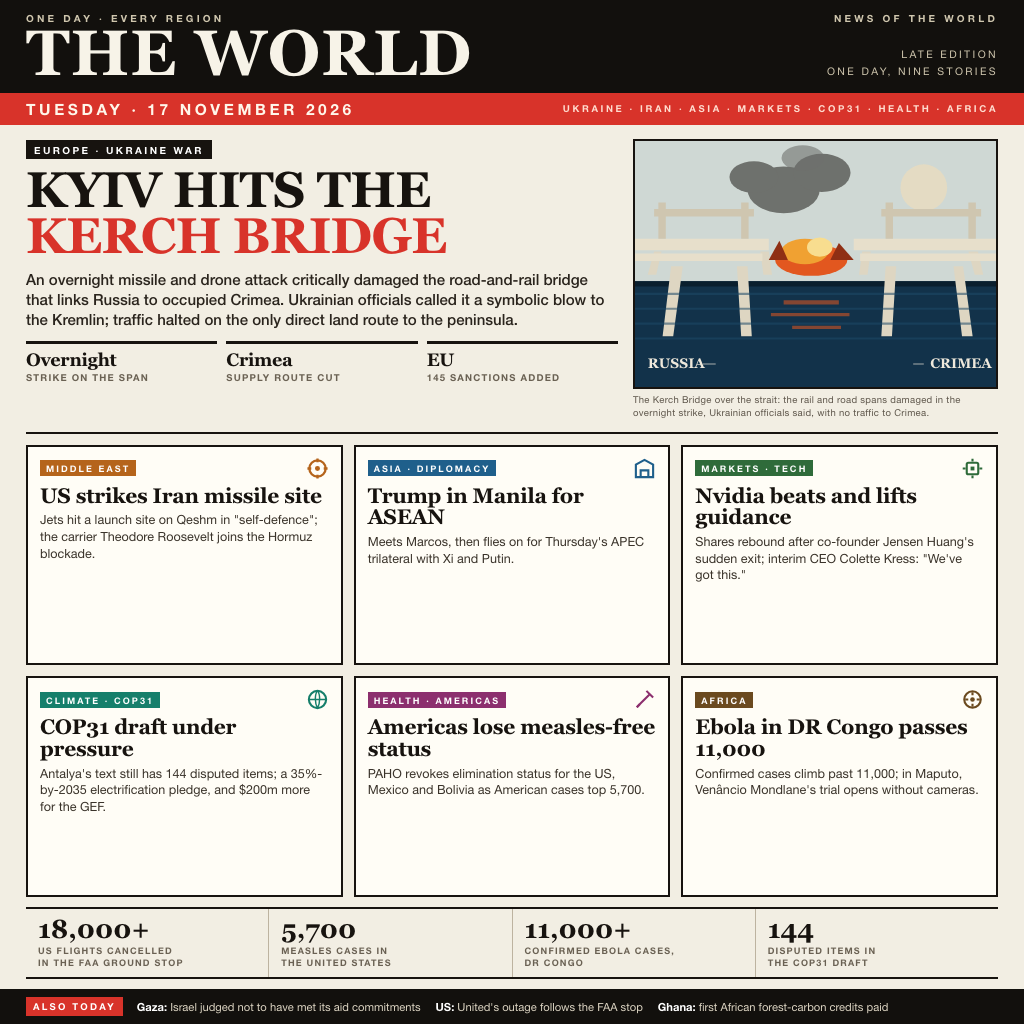
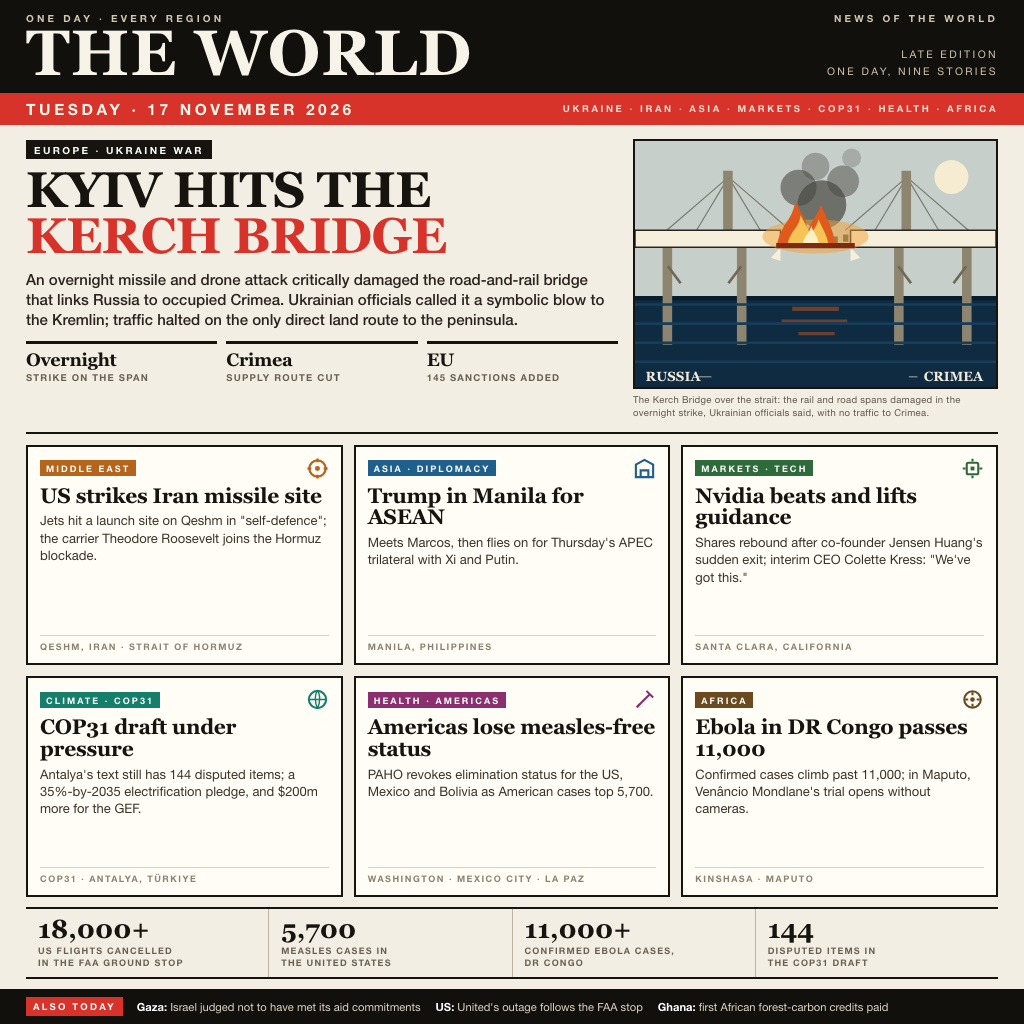
Render the final front page image

diff --git a/tools/front-page.html b/tools/front-page.html
@@ -51,7 +51,9 @@
   .card .r.mk { background: #2f6b3a } .card .r.cl { background: #167f6b }
   .card .r.he { background: #8c2f6e } .card .r.af { background: #6b4a1f }
   .card h3 { font-family: Georgia, serif; font-size: 21px; line-height: 1.03; letter-spacing: -.25px }
-  .card p { font-size: 12.6px; line-height: 1.32; margin-top: 5px; color: #3a332a }
+  .card p { font-size: 13px; line-height: 1.34; margin-top: 5px; color: #3a332a }
+  .card .src { margin-top: auto; border-top: 1px solid #d9d0bb; padding-top: 5px; font-size: 9px;
+               letter-spacing: 1.5px; text-transform: uppercase; color: #8b8271; font-weight: 700 }
   .ico { width: 23px; height: 23px; display: block }
 
   .numbers { display: flex; margin: 10px 26px 0; border-top: 2px solid #17130f;
@@ -100,55 +102,70 @@
   </div>
   <figure>
     <svg viewBox="0 0 340 232" role="img" aria-label="The Kerch bridge burning over the strait">
-      <rect width="340" height="232" fill="#efe9dc"/>
-      <!-- sky -->
-      <rect y="0" width="340" height="132" fill="#cfd8d4"/>
-      <circle cx="272" cy="44" r="22" fill="#e8dcc0" opacity=".85"/>
-      <!-- smoke -->
-      <g fill="#4a4a46" opacity=".72">
-        <ellipse cx="140" cy="46" rx="34" ry="22"/>
-        <ellipse cx="176" cy="30" rx="27" ry="18"/>
-        <ellipse cx="112" cy="34" rx="23" ry="15"/>
-        <ellipse cx="158" cy="16" rx="20" ry="12" opacity=".6"/>
+      <rect width="340" height="232" fill="#e8e2d2"/>
+      <rect y="0" width="340" height="146" fill="#c6cfc9"/>
+      <circle cx="298" cy="34" r="16" fill="#f6ecd2"/>
+
+      <!-- smoke plume -->
+      <g fill="#4b4a44">
+        <circle cx="176" cy="60" r="23" opacity=".72"/>
+        <circle cx="154" cy="44" r="17" opacity=".6"/>
+        <circle cx="196" cy="38" r="15" opacity=".5"/>
+        <circle cx="170" cy="24" r="13" opacity=".38"/>
+        <circle cx="204" cy="16" r="9" opacity=".26"/>
       </g>
+
       <!-- sea -->
-      <rect y="132" width="340" height="100" fill="#12324a"/>
-      <path d="M0 132h340v5H0z" fill="#0a1f2e"/>
-      <!-- bridge piers -->
-      <g fill="#ded6c2">
-        <path d="M34 118l-8 66h10l9-66zM96 118l4 66h10l-4-66zM236 118l-4 66h10l4-66zM300 118l8 66h10l-9-66z"/>
-        <path d="M18 104l-6 22h8l5-22zM118 104l3 22h8l-3-22zM214 104l-3 22h8l3-22zM314 104l6 22h8l-5-22z"/>
+      <rect y="146" width="340" height="86" fill="#0e2b41"/>
+      <path d="M0 146h340v4H0z" fill="#081d2c"/>
+
+      <!-- piers -->
+      <g fill="#8d8570">
+        <path d="M26 96h9v96h-9zM96 96h9v96h-9zM244 96h9v96h-9zM308 96h9v96h-9z"/>
       </g>
-      <!-- deck: intact left and right, missing span in the middle -->
-      <g fill="#e7dfcb">
-        <path d="M0 92h126v11H0zM0 106h120v7H0z"/>
-        <path d="M206 92h134v11H206zM212 106h128v7H212z"/>
+      <g stroke="#6f6857" stroke-width="2.5">
+        <path d="M31 118l12 16M100 118l-12 16M248 118l12 16M312 118l-12 16"/>
       </g>
-      <!-- arch towers -->
-      <g fill="#cfc6b0">
-        <path d="M22 58h7v34h-7zM100 58h7v34h-7zM236 58h7v34h-7zM314 58h7v34h-7z"/>
-        <path d="M18 64h94v7H18zM232 64h94v7H232z"/>
+
+      <!-- towers and cables -->
+      <g stroke="#3a352c" stroke-width="1.1" opacity=".55">
+        <path d="M88 34l-58 50M88 34l-30 50M88 34l30 50M88 34l58 50"/>
+        <path d="M256 34l-58 50M256 34l-30 50M256 34l30 50M256 34l58 50"/>
       </g>
-      <!-- fire in the gap -->
-      <g>
-        <ellipse cx="166" cy="112" rx="34" ry="15" fill="#e2571f"/>
-        <ellipse cx="160" cy="104" rx="22" ry="12" fill="#f0a132"/>
-        <ellipse cx="174" cy="100" rx="12" ry="9" fill="#f8dd8f"/>
-        <path d="M206 112l-14-16-8 16z" fill="#8f2f14"/>
-        <path d="M126 112l10-18 8 18z" fill="#8f2f14"/>
+      <g fill="#8d8570"><path d="M83 28h9v56h-9zM251 28h9v56h-9z"/></g>
+
+      <!-- deck, broken in the middle -->
+      <g fill="#f6efdc" stroke="#2a251d" stroke-width="1.4">
+        <path d="M0 84h137v16H0zM203 84h137v16H203z"/>
       </g>
-      <!-- water reflection -->
-      <g opacity=".55">
-        <path d="M140 150h52v4h-52zM128 162h74v3h-74zM148 174h46v3h-46z" fill="#e2571f"/>
-        <path d="M0 144h340M0 158h340M0 172h340M0 186h340" stroke="#1d4a68" stroke-width="2"/>
+      <g fill="#f6efdc">
+        <path d="M137 100l-9 10 9 3zM203 100l9 10-9 3z"/>
       </g>
-      <!-- labels -->
-      <g font-family="Georgia, serif" font-size="13" font-weight="bold" fill="#efe9dc">
-        <text x="12" y="214">RUSSIA</text>
-        <text x="278" y="214">CRIMEA</text>
+      <g fill="#2a251d">
+        <path d="M140 88h6v8h-6zM154 92h5v8h-5zM186 90h5v9h-5zM196 88h5v7h-5z" opacity=".7"/>
       </g>
-      <g stroke="#efe9dc" stroke-width="1.4" opacity=".45">
-        <path d="M64 210h12M262 210h10"/>
+
+      <!-- fire -->
+      <ellipse cx="170" cy="90" rx="50" ry="16" fill="#f2a234" opacity=".5"/>
+      <path d="M134 96c6-22 14-20 17-40 6 16 9 12 12 28 5-12 9-14 12-24 7 16 10 20 14 36z" fill="#e05a1c"/>
+      <path d="M144 96c4-14 10-13 12-26 5 11 7 9 9 20 4-8 6-10 8-16 4 10 7 13 9 22z" fill="#f6c454"/>
+      <path d="M158 96c2-8 6-8 8-16 3 8 5 7 7 16z" fill="#fdf0c2"/>
+      <path d="M133 96h74v5h-74z" fill="#7d2a12"/>
+
+      <!-- reflection -->
+      <g fill="#e05a1c" opacity=".45">
+        <path d="M148 156h44v4h-44zM138 168h62v3h-62zM154 180h34v3h-34z"/>
+      </g>
+      <g stroke="#173e59" stroke-width="2.5">
+        <path d="M0 154h340M0 172h340M0 190h340M0 208h340"/>
+      </g>
+
+      <g font-family="Georgia, serif" font-size="12.5" font-weight="bold" fill="#f2ecdc">
+        <text x="10" y="226">RUSSIA</text>
+        <text x="272" y="226">CRIMEA</text>
+      </g>
+      <g stroke="#f2ecdc" stroke-width="1.4" opacity=".45">
+        <path d="M58 222h14M258 222h8"/>
       </g>
     </svg>
     <figcaption>The Kerch Bridge over the strait: the rail and road spans damaged in the overnight strike,
@@ -167,6 +184,7 @@
     <h3>US strikes Iran missile site</h3>
     <p>Jets hit a launch site on Qeshm in "self-defence"; the carrier Theodore Roosevelt joins the Hormuz
       blockade.</p>
+    <div class="src">Qeshm, Iran &middot; Strait of Hormuz</div>
   </article>
 
   <article class="card">
@@ -176,6 +194,7 @@
     </div>
     <h3>Trump in Manila for ASEAN</h3>
     <p>Meets Marcos, then flies on for Thursday's APEC trilateral with Xi and Putin.</p>
+    <div class="src">Manila, Philippines</div>
   </article>
 
   <article class="card">
@@ -186,6 +205,7 @@
     <h3>Nvidia beats and lifts guidance</h3>
     <p>Shares rebound after co-founder Jensen Huang's sudden exit; interim CEO Colette Kress: "We've
       got this."</p>
+    <div class="src">Santa Clara, California</div>
   </article>
 
   <article class="card">
@@ -196,6 +216,7 @@
     <h3>COP31 draft under pressure</h3>
     <p>Antalya's text still has 144 disputed items; a 35%-by-2035 electrification pledge, and $200m more
       for the GEF.</p>
+    <div class="src">COP31 &middot; Antalya, T&uuml;rkiye</div>
   </article>
 
   <article class="card">
@@ -205,6 +226,7 @@
     </div>
     <h3>Americas lose measles-free status</h3>
     <p>PAHO revokes elimination status for the US, Mexico and Bolivia as American cases top 5,700.</p>
+    <div class="src">Washington &middot; Mexico City &middot; La Paz</div>
   </article>
 
   <article class="card">
@@ -214,6 +236,7 @@
     </div>
     <h3>Ebola in DR Congo passes 11,000</h3>
     <p>Confirmed cases climb past 11,000; in Maputo, Ven&acirc;ncio Mondlane's trial opens without cameras.</p>
+    <div class="src">Kinshasa &middot; Maputo</div>
   </article>
 </section>
 
